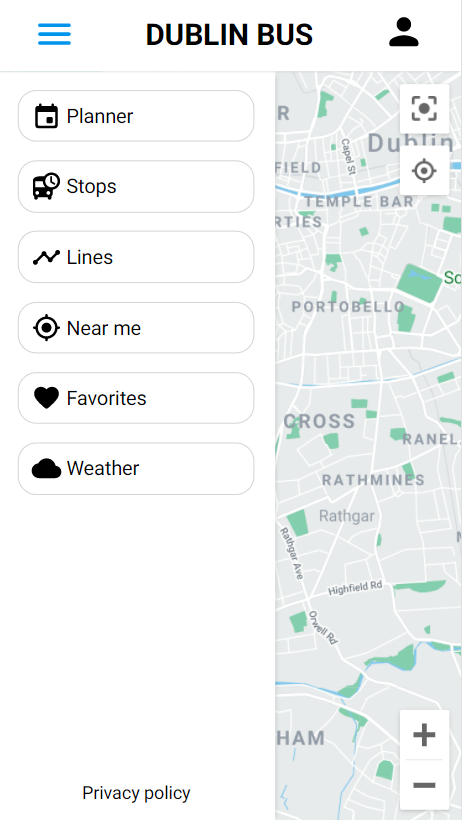
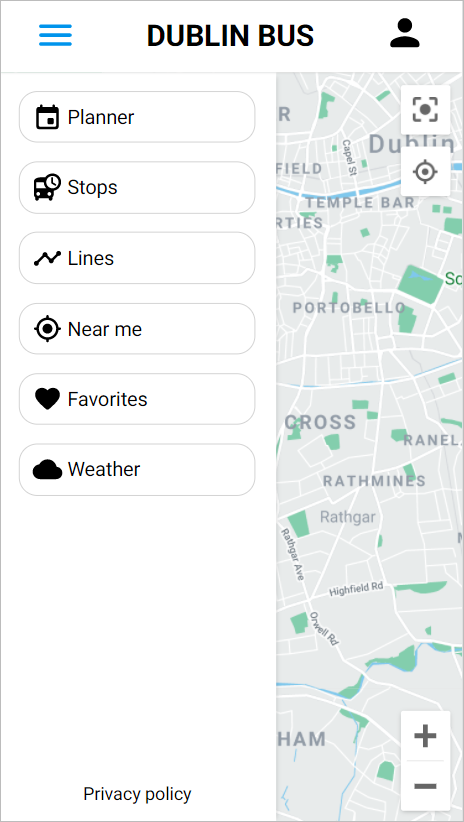
Mobile view

diff --git a/README.md b/README.md
@@ -35,3 +35,7 @@ To run the project locally you need to follow the steps described in the README.
 ### Desktop view
 
 ![Desktop view](report/images/desktop-view.png)
+
+### Mobile view
+
+![Mobile view](report/images/mobile-view.png)
